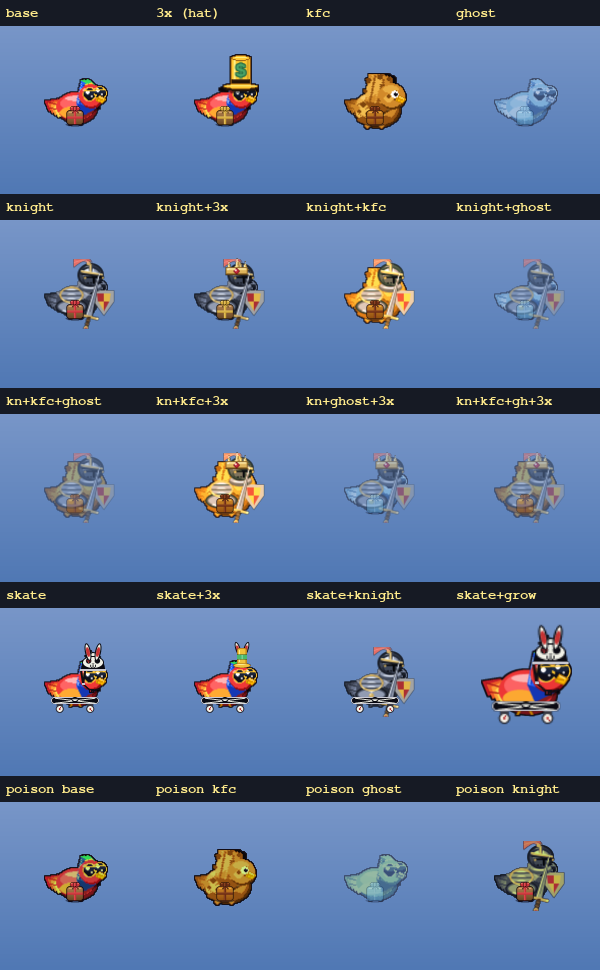
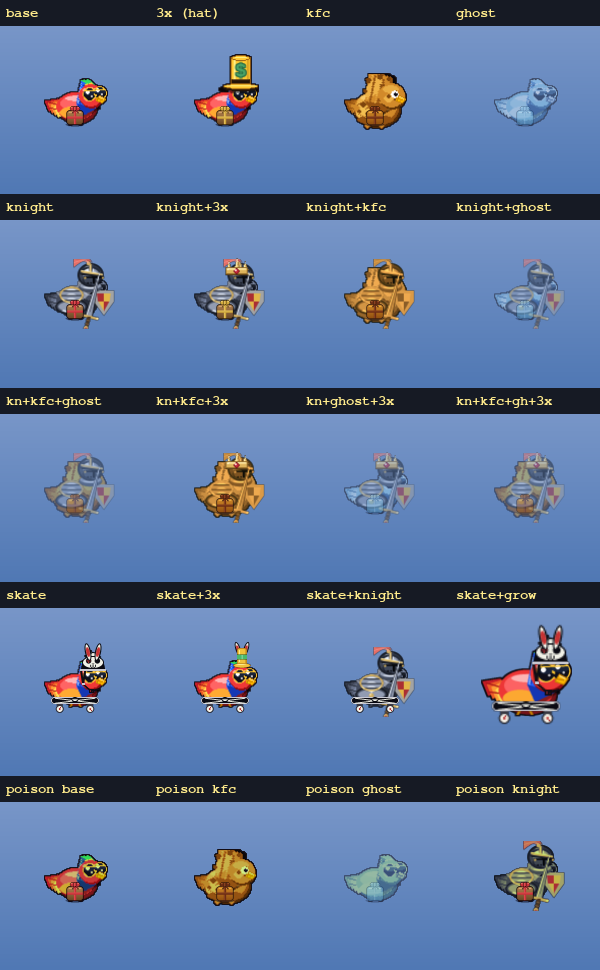
Fried knight: fry the WHOLE suit (helm, shield, sword, armour), not just the body
Replace the additive gold wash (which left the helm dark, shield heraldic-red and
sword steel) with a full _fry_recolor: collapse the knight frame to luminance,
then map it onto a golden-brown duotone (gold multiply + warm additive floor).
Now every component reads crispy fried-golden. Flows into the knight+kfc+3x crown
stack (crown composited after, keeps its ruby).

https://claude.ai/code/session_0198wUfDSqXDZqGjdP4sx98r

Changed region(s): [[0.57, 0.2474, 0.69, 0.3402], [0.33, 0.4639, 0.45, 0.5567]]

diff --git a/game/knight_skin.py b/game/knight_skin.py
@@ -251,19 +251,26 @@ def build_knight_frames():
     return [_build_knight_frame(f) for f in parrot._get_frames()]
 
 
+def _fry_recolor(f):
+    """Re-skin a whole frame as fried chicken: collapse it to luminance, then
+    map that onto a golden-brown duotone (gold MULTIPLY for the hue + a warm
+    ADDITIVE floor so the darkest pixels read crispy-brown, not black). Applied
+    to the ENTIRE knight so helm, shield, sword and armour all go fried-golden,
+    not just the bird's body."""
+    g = pygame.transform.grayscale(f)                       # luminance, keeps alpha
+    g.fill((255, 196, 104), special_flags=pygame.BLEND_RGB_MULT)
+    o = pygame.Surface(g.get_size(), pygame.SRCALPHA)
+    o.fill((54, 28, 4, 255))
+    o.blit(g, (0, 0), special_flags=pygame.BLEND_RGBA_MIN)  # clamp to silhouette
+    g.blit(o, (0, 0), special_flags=pygame.BLEND_RGB_ADD)
+    return g
+
+
 def build_knight_kfc_frames():
-    """THE FRIED KNIGHT — KFC golden body + an ADDITIVE crispy-gold wash that
-    LIFTS the dark steel (helm/breastplate) into the same fried-golden family,
-    so the whole suit reads fried-crispy rather than a fried bird in plain steel
-    (a plain alpha tint left the near-black armet dark)."""
-    frames = [_build_knight_frame(f, body_recolor=False)
-              for f in parrot._get_kfc_frames()]
-    for f in frames:
-        o = pygame.Surface(f.get_size(), pygame.SRCALPHA)
-        o.fill((78, 44, 6, 255))
-        o.blit(f, (0, 0), special_flags=pygame.BLEND_RGBA_MIN)  # clamp to silhouette
-        f.blit(o, (0, 0), special_flags=pygame.BLEND_RGB_ADD)
-    return frames
+    """THE FRIED KNIGHT — the WHOLE suit (helm, shield, sword, armour, body)
+    re-skinned as crispy fried-golden via _fry_recolor, not just the bird."""
+    return [_fry_recolor(_build_knight_frame(f, body_recolor=False))
+            for f in parrot._get_kfc_frames()]
 
 
 def build_knight_ghost_frames():
